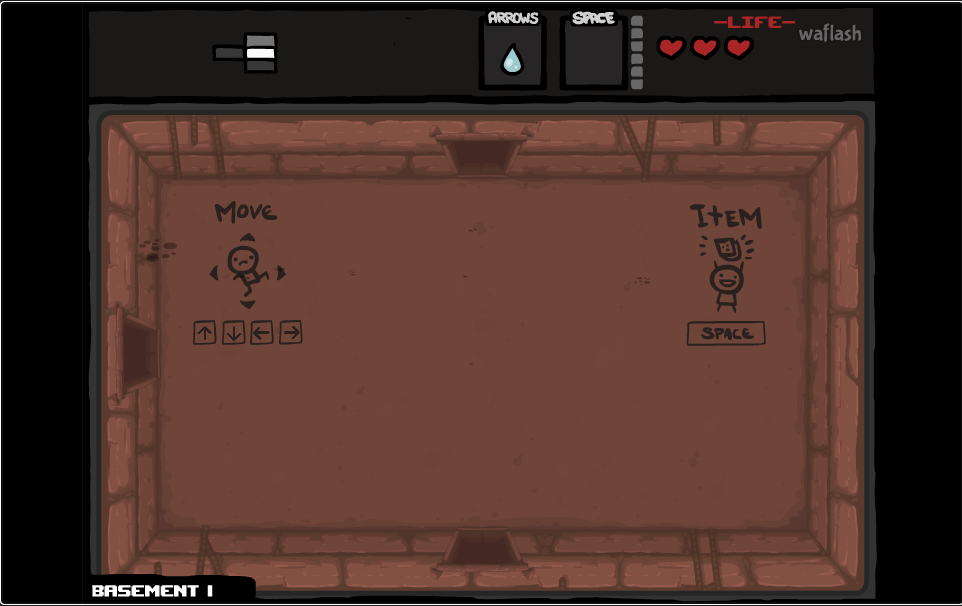
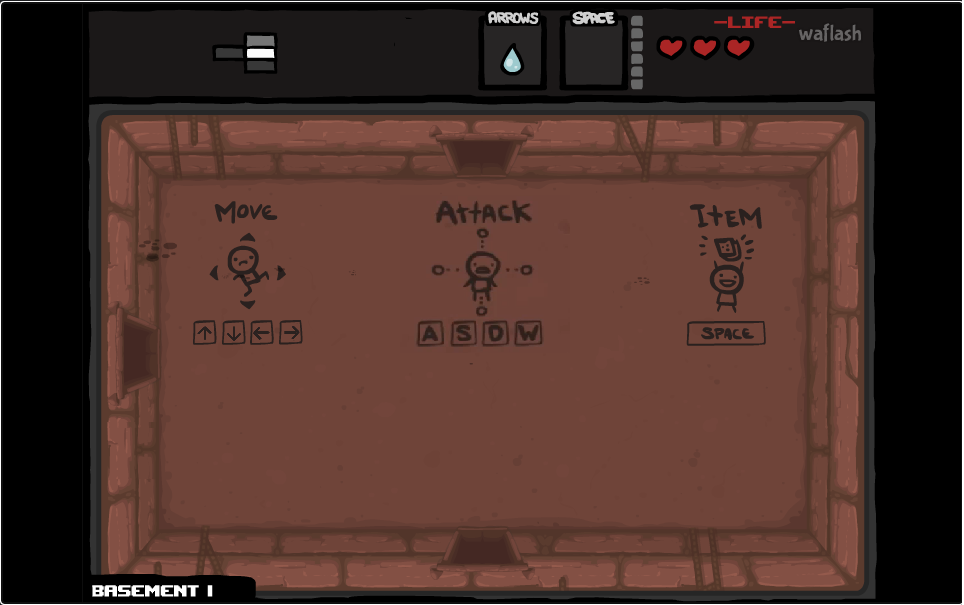
캐릭터 공격 모션 구현중

diff --git a/Isaac/Stage/stage0_state.py b/Isaac/Stage/stage0_state.py
@@ -59,7 +59,6 @@ class Isaac:
         elif self.dir_x == 0:
             self.isaac_image.draw(self.x, self.y-10)
 
-
 class Tear:
     def __init__(self):
         self.x = 0
@@ -141,34 +140,35 @@ def handle_events():
                 game_framework.quit()
             if event.key == SDLK_i:
                 game_framework.push_state(item_state)
-            if event.key == SDLK_w:
-                tear.x = isaac.x
-                tear.y = isaac.y
-                tear.speed[0] = 0
-                tear.speed[1] = 0
-                tear.item = 'tear'
-                tear.speed[1] = 10
-            if event.key == SDLK_a:
-                tear.x = isaac.x
-                tear.y = isaac.y
-                tear.speed[0] = 0
-                tear.speed[1] = 0
-                tear.item = 'tear'
-                tear.speed[0] = -10
-            if event.key == SDLK_s:
-                tear.x = isaac.x
-                tear.y = isaac.y
-                tear.speed[0] = 0
-                tear.speed[1] = 0
-                tear.item = 'tear'
-                tear.speed[1] = -10
-            if event.key == SDLK_d:
-                tear.x = isaac.x
-                tear.y = isaac.y
-                tear.speed[0] = 0
-                tear.speed[1] = 0
-                tear.item = 'tear'
-                tear.speed[0] = 10
+            if tear.item == None:
+                if event.key == SDLK_w:
+                    tear.x = isaac.x
+                    tear.y = isaac.y
+                    tear.speed[0] = 0
+                    tear.speed[1] = 0
+                    tear.item = 'tear'
+                    tear.speed[1] = 10
+                if event.key == SDLK_a:
+                    tear.x = isaac.x
+                    tear.y = isaac.y
+                    tear.speed[0] = 0
+                    tear.speed[1] = 0
+                    tear.item = 'tear'
+                    tear.speed[0] = -10
+                if event.key == SDLK_s:
+                    tear.x = isaac.x
+                    tear.y = isaac.y
+                    tear.speed[0] = 0
+                    tear.speed[1] = 0
+                    tear.item = 'tear'
+                    tear.speed[1] = -10
+                if event.key == SDLK_d:
+                    tear.x = isaac.x
+                    tear.y = isaac.y
+                    tear.speed[0] = 0
+                    tear.speed[1] = 0
+                    tear.item = 'tear'
+                    tear.speed[0] = 10
         if event.type == SDL_QUIT:
             running = False
         if event.type == SDL_KEYDOWN:
@@ -233,7 +233,6 @@ def update():
         isaac.dir_y = 0
         isaac.y = 120
         game_framework.push_state(stage3_state)
-
     delay(0.02)
 
 
